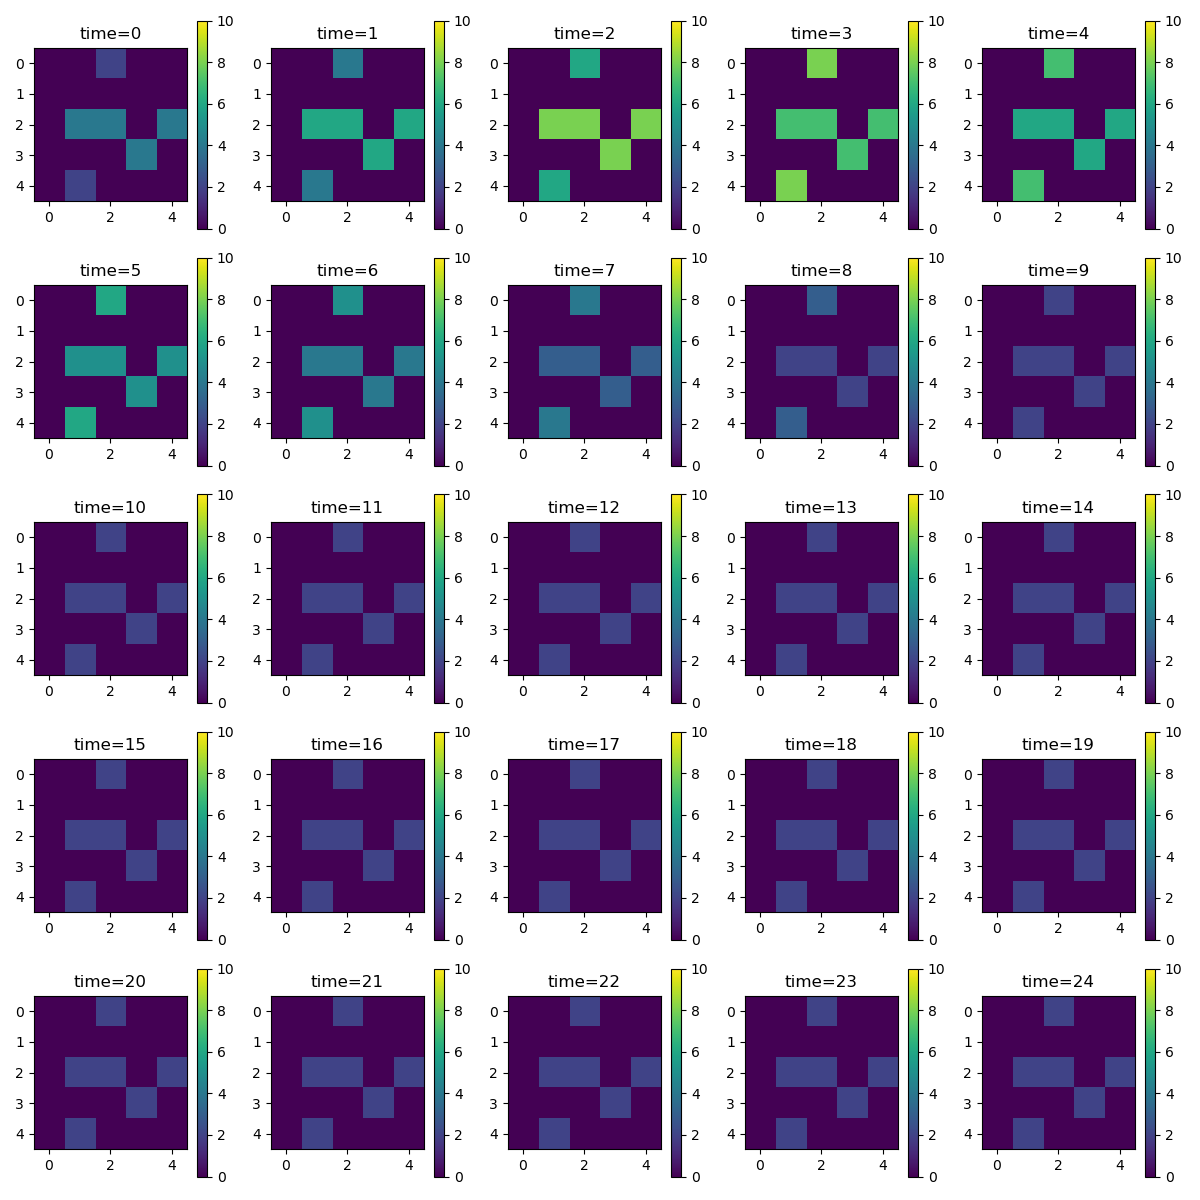
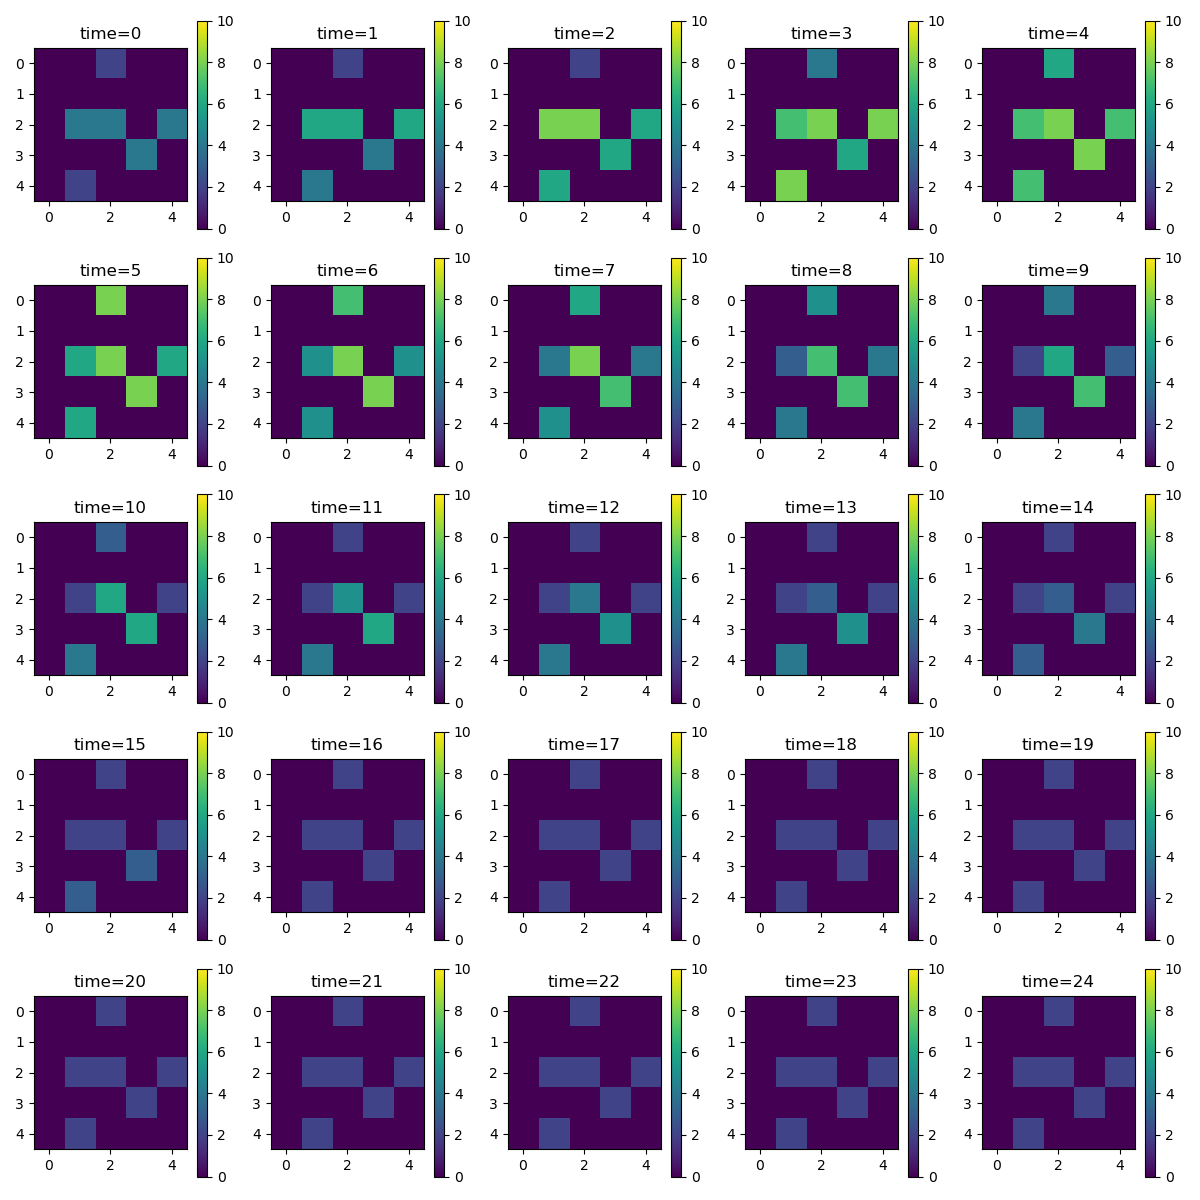
random sampling for signaling cells

diff --git a/qs_network.py b/qs_network.py
@@ -1,7 +1,9 @@
 import numpy as np
-
 from matplotlib import pyplot as plot
 from scipy import signal
+
+
+rand_gen = np.random.default_rng()
 
 
 class QSNetwork:
@@ -76,15 +78,23 @@ class QSNetwork:
 class QSNetworkSimulator:
 
 	def __init__(
-		self, qs_net, obs_duration=10, 
-		signaling_interval=1, level_update_thresh=3,
+		self, qs_net, obs_duration=10, signaling_interval=1, 
+		level_update_thresh=3, signaling_frac=1,
 		verbose=False
 	):
+		""" parameters:
+		- qs_net: the network to simulate; a QSNetwork instance.
+		- obs_duration: total simulation length.
+		- signaling_interval: frequency of update steps.
+		- signaling_frac: number of cells to select as signaling cells in each update step (default: all cells signal).
+		- verbose: boolean to indicate if simulation comments should be displayed.
+		"""
 		
 		self.net = qs_net 
 		self.obs_duration = obs_duration
 		self.signaling_interval = signaling_interval
 		self.level_update_thresh = level_update_thresh
+		self.signaling_frac = signaling_frac
 		self.verbose = verbose
 
 		# initialize simulator by seeding network and running one step.
@@ -162,11 +172,11 @@ class QSNetworkSimulator:
 
 	def run_qs_simulation(self, obs_duration=None, signaling_interval=None):
 
-		_ = print(f"simulating {obs_duration} time steps ...") if self.verbose else None
 		# override simulator defaults if args passed.
 		obs_duration = self.obs_duration if obs_duration is None else obs_duration
 		signaling_interval = self.signaling_interval if signaling_interval is None else signaling_interval
 
+		_ = print(f"simulating {obs_duration} time steps ...") if self.verbose else None
 		# run simulation.
 		log = dict()
 		plot.clf()
@@ -191,7 +201,12 @@ class QSNetworkSimulator:
 
 			# select the signaling cells.
 			# NOTE: this is where the probability-based selection of signaling cells would go.
-			signaling_cells = self.net.cells.copy()
+			num_cells = self.net.cells.sum()
+			# signaling_cells = self.net.cells.copy()
+			signaling_cells = np.zeros(self.net.cells.shape)
+			signaling_cells[*list(zip(*rand_gen.choice(
+				list(zip(*np.nonzero(self.net.cells))), int(self.signaling_frac*num_cells), replace=False
+			)))] = 1
 			
 			# generate signal cloud.
 			signal_cloud = np.sum([
@@ -229,7 +244,7 @@ class QSNetworkSimulator:
 		_ = print("saving plots...") if self.verbose else None
 		# save progression.
 		plot.tight_layout()
-		plot.savefig(f"levels_duration-{obs_duration}.png", dpi=100)
+		plot.savefig(f"levels_duration-{obs_duration}_select-{self.signaling_frac}.png", dpi=100)
 
 
 simulator = QSNetworkSimulator(
@@ -237,6 +252,7 @@ simulator = QSNetworkSimulator(
 		cells="00100.00000.01101.00010.01000"
 	),
 	obs_duration = 24,
+	signaling_frac = 1,
 	verbose = True
 )
 
